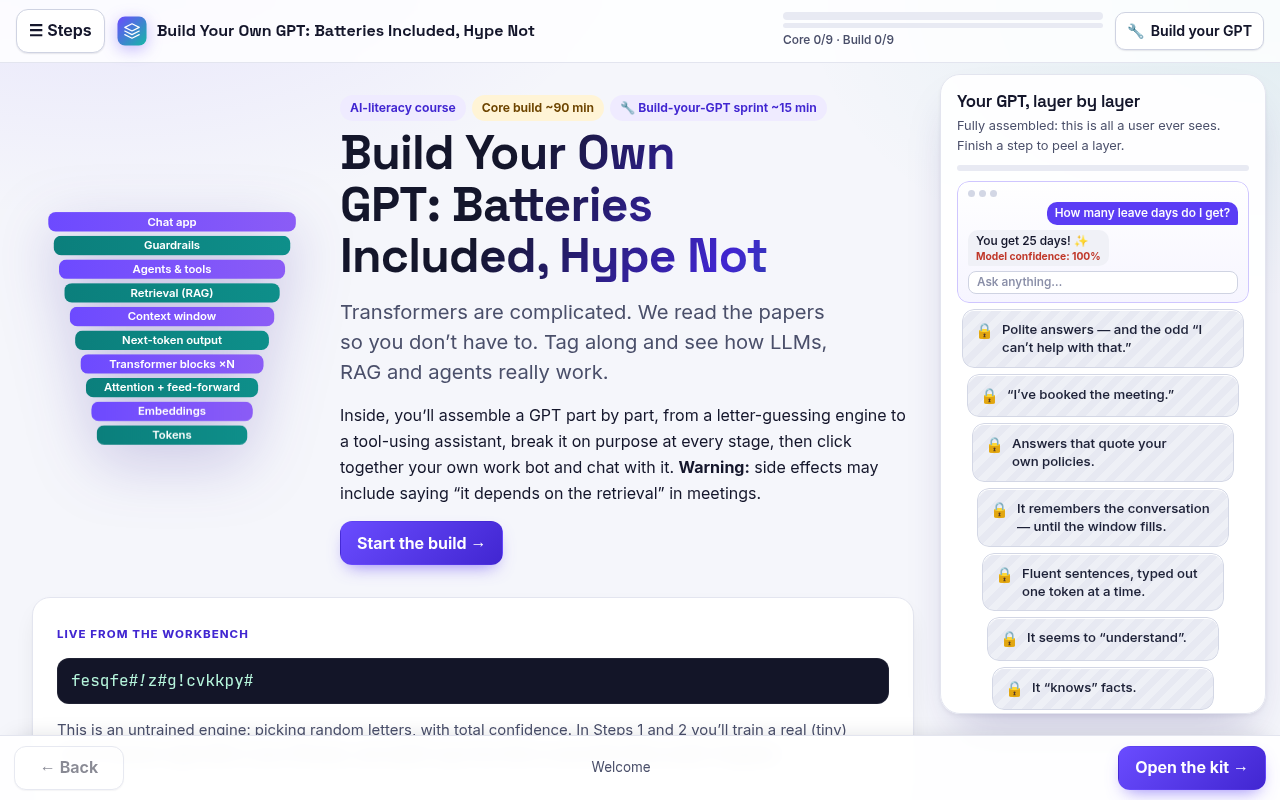
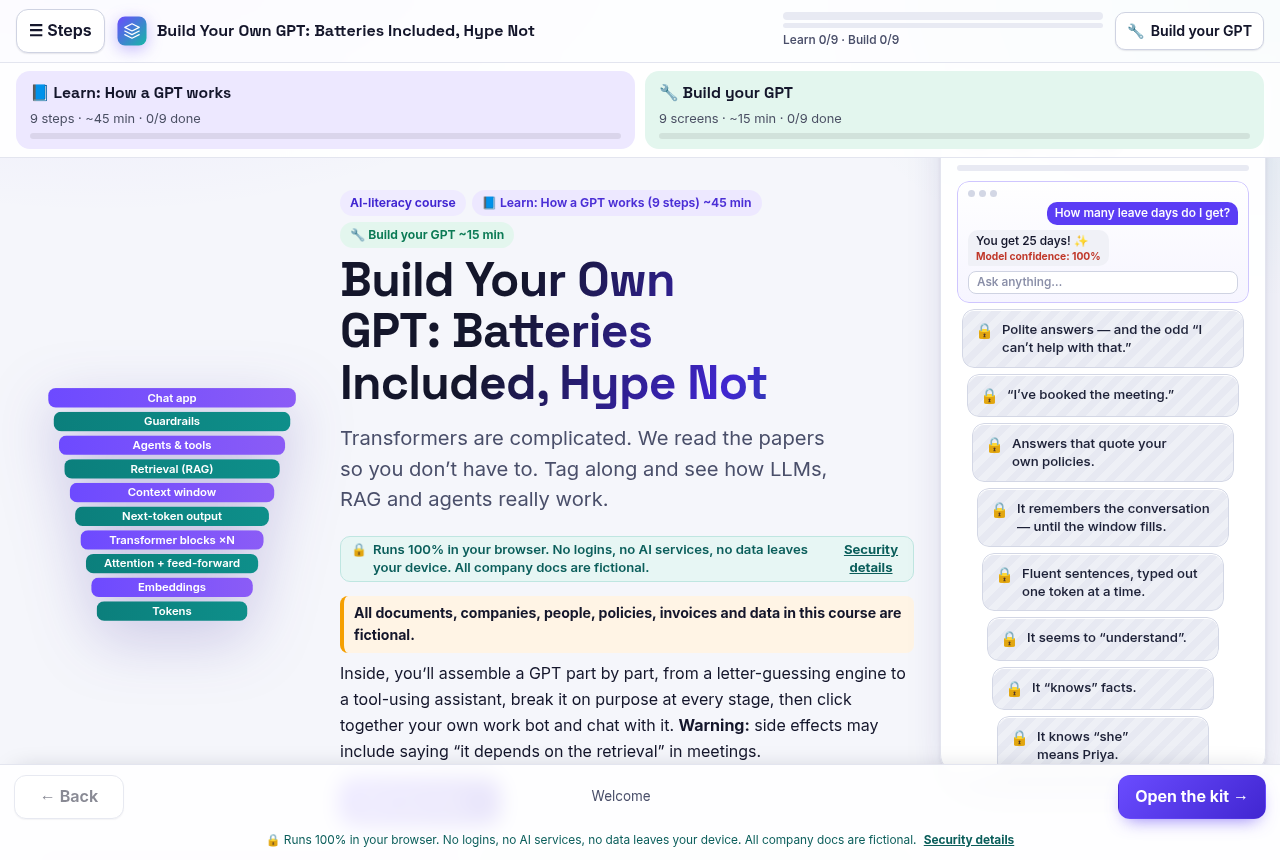
Two side-by-side tracks (Learn: How a GPT works ~45 min / Build your GPT ~15 min), per-step minutes, plain-English term tips with Learn-more links in the sprint

diff --git a/assets/js/app.js b/assets/js/app.js
@@ -8,6 +8,10 @@
   const CORE = C.steps.map((s) => s.n);
   const LAST_CORE = CORE[CORE.length - 1];
   const SP = () => window.Sprint; const NB = 9;       // build sprint screens
+  // Honest per-step minutes: words (hook..quiz, excl. optional Under-the-hood) at 200 wpm + ~2 min Break it!/quiz (+0.5 min training in Steps 1-2), rounded.
+  const MIN = { 1: 5, 2: 5, 3: 4, 4: 6, 5: 5, 6: 5, 7: 5, 8: 5, 9: 4 };
+  const LEARN_MIN = 45, BUILD_MIN = 15, LEARN = 'Learn: How a GPT works';
+  C.steps.forEach((s) => { s.time = MIN[s.n] + ' min'; });
   const REAL_MODEL = [1, 2];                          // steps whose Break it! runs a genuinely trained model
   const $ = (s, r) => (r || document).querySelector(s);
   const $$ = (s, r) => Array.from((r || document).querySelectorAll(s));
@@ -184,7 +188,8 @@
     $('#pCore').style.width = (core / CORE.length * 100) + '%';
     $('#pBuild').style.width = (bc / NB * 100) + '%';
     $('#progCore').setAttribute('aria-valuenow', core); $('#progBuild').setAttribute('aria-valuenow', bc);
-    $('#progressLabel').textContent = 'Core ' + core + '/' + CORE.length + ' \u00b7 Build ' + bc + '/' + NB;
+    $('#progressLabel').textContent = 'Learn ' + core + '/' + CORE.length + ' \u00b7 Build ' + bc + '/' + NB;
+    drawTracks(core, bc);
     buildDrawer();
     if (window.Layers) { try { window.Layers.update(current); } catch (e) { console.error('layers', e); } }
   }
@@ -195,9 +200,9 @@
       opts = opts || {};
       return '<li class="' + (opts.done ? 'done' : '') + '"><a href="' + href + '"' + (cur === href ? ' aria-current="page"' : '') + '><span class="num" aria-hidden="true">' + (opts.done ? '\u2713' : num) + '</span>' + esc(label) + (opts.done ? '<span class="sr-only"> (done)</span>' : '') + '</a></li>';
     };
-    let h = '<h2>The core build (~90 min)</h2><ol>' + li('#/welcome', '\u2302', 'Welcome');
-    CORE.forEach((n) => { h += li('#/step/' + n, n, step(n).name, { done: S.done[n] }); });
-    h += '</ol><h2>\ud83d\udd27 Build your GPT (~15 min)</h2><ol>';
+    let h = '<ol>' + li('#/welcome', '\u2302', 'Welcome') + '</ol><h2 class="trk-learn">\ud83d\udcd8 ' + LEARN + ' (9 steps \u00b7 ~' + LEARN_MIN + ' min)</h2><ol>';
+    CORE.forEach((n) => { h += li('#/step/' + n, n, step(n).name + ' \u00b7 ' + MIN[n] + ' min', { done: S.done[n] }); });
+    h += '</ol><h2 class="trk-build">\ud83d\udd27 Build your GPT (~' + BUILD_MIN + ' min)</h2><ol>';
     SP().SCREENS.forEach((sc, i) => { h += li('#/build/' + (i + 1), i + 1, sc.t, { done: i + 1 === NB ? SP().B().built : S.bdone[i + 1] }); });
     h += li('#/chat', '\ud83d\udcac', 'Chat with your bot') + '</ol>';
     d.innerHTML = h;
@@ -210,6 +215,15 @@
     S = blank(); if (SP()) SP().resetSession(); save(); toast('Fresh start! The engine is back to guessing random letters.'); go('#/welcome');
   }
 
+  function trackCards(core, bc, compact) {
+    const r = current || {}; const onL = r.name === 'step', onB = r.name === 'build' || r.name === 'chat';
+    const nextStep = CORE.find((n) => !S.done[n]) || 1; const nextB = Math.min(NB, bc + 1);
+    const learn = '<a class="track learn' + (onL ? ' on' : '') + '" href="#/step/' + (onL ? r.arg : nextStep) + '"' + (onL ? ' aria-current="true"' : '') + '><b>\ud83d\udcd8 ' + LEARN + '</b><small>9 steps \u00b7 ~' + LEARN_MIN + ' min \u00b7 ' + core + '/9 done</small><span class="tbar"><i style="width:' + (core / 9 * 100) + '%"></i></span>' + (compact ? '' : '<span class="tdesc">Peel a GPT layer by layer: train a tiny model, break it, see why it works.</span>') + '</a>';
+    const build = '<a class="track build' + (onB ? ' on' : '') + '" href="#/build/' + (onB && r.name === 'build' ? r.arg : nextB) + '"' + (onB ? ' aria-current="true"' : '') + '><b>\ud83d\udd27 Build your GPT</b><small>9 screens \u00b7 ~' + BUILD_MIN + ' min \u00b7 ' + bc + '/9 done</small><span class="tbar"><i style="width:' + (bc / 9 * 100) + '%"></i></span>' + (compact ? '' : '<span class="tdesc">Click together a work bot and chat with it. Start any time: every term has a plain-English tip.</span>') + '</a>';
+    return learn + build;
+  }
+  function tracksHTML() { return '<section class="tracks big" aria-label="Choose a track">' + trackCards(CORE.filter((n) => S.done[n]).length, buildCount(), false) + '</section>'; }
+  function drawTracks(core, bc) { const t = $('#trackNav'); if (t) t.innerHTML = trackCards(core, bc, true); }
   function heroArt() {
     const L = ['Chat app', 'Guardrails', 'Agents & tools', 'Retrieval (RAG)', 'Context window', 'Next-token output', 'Transformer blocks \u00d7N', 'Attention + feed-forward', 'Embeddings', 'Tokens'];
     return '<svg viewBox="0 0 260 250" class="hero-svg" aria-hidden="true" focusable="false">' + L.map((l, i) => { const y = 14 + i * 22, w = 230 - i * 10, x = (260 - w) / 2; return '<g class="hl" style="--i:' + i + '"><rect x="' + x + '" y="' + y + '" width="' + w + '" height="18" rx="7" fill="url(#hg' + (i % 2) + ')"/><text x="130" y="' + (y + 12.5) + '" text-anchor="middle">' + l + '</text></g>'; }).join('') + '<defs><linearGradient id="hg0" x1="0" x2="1"><stop offset="0" stop-color="#6d4aff"/><stop offset="1" stop-color="#8b5cf6"/></linearGradient><linearGradient id="hg1" x1="0" x2="1"><stop offset="0" stop-color="#0b7f7c"/><stop offset="1" stop-color="#0e8f8a"/></linearGradient></defs></svg>';
@@ -220,16 +234,13 @@
     const rl = resume ? whereLabel(parse(resume)) : '';
     main.innerHTML =
       '<section class="hero"><div class="hero-art">' + heroArt() + '</div>' +
-      '<div><div class="chips"><span class="chip">AI-literacy course</span><span class="chip time">Core build ~90 min</span><span class="chip">\ud83d\udd27 Build-your-GPT sprint ~15 min</span></div>' +
+      '<div><div class="chips"><span class="chip">AI-literacy course</span><span class="chip learn">\ud83d\udcd8 ' + LEARN + ' (9 steps) ~' + LEARN_MIN + ' min</span><span class="chip build">\ud83d\udd27 Build your GPT ~' + BUILD_MIN + ' min</span></div>' +
       '<h1 class="course-title">' + esc(CFG.name) + '</h1><p class="subtitle">' + esc(CFG.subtitle) + '</p>' + safe('Runs 100% in your browser. No logins, no AI services, no data leaves your device. All company docs are fictional.') + '<p class="fict"><strong>' + FICT + '</strong></p>' +
       '<p>Inside, you\u2019ll assemble a GPT part by part, from a letter-guessing engine to a tool-using assistant, break it on purpose at every stage, then click together your own work bot and chat with it. <strong>Warning:</strong> side effects may include saying \u201cit depends on the retrieval\u201d in meetings.</p>' +
-      '<div class="row">' + (resume ? '<a class="btn primary" href="' + resume + '">Continue: ' + esc(rl) + ' \u2192</a><a class="btn" href="#/step/1">Start from Step 1</a>' : '<a class="btn primary" href="#/step/1">Start the build \u2192</a>') + '</div></div></section>' +
+      '<div class="row">' + (resume ? '<a class="btn primary" href="' + resume + '">Continue: ' + esc(rl) + ' \u2192</a><a class="btn" href="#/step/1">Start from Step 1</a>' : '<a class="btn primary" href="#/step/1">Start learning \u2192</a>') + '</div></div></section>' + tracksHTML() +
       '<div class="card"><span class="section-label">Live from the workbench</span><p class="noise" id="noise" aria-live="off"></p><p class="note">This is an untrained engine: picking random letters, with total confidence. In Steps 1 and 2 you\u2019ll train a real (tiny) neural network right here in your browser, and watch it go from this to word-like office email. Progress!</p></div>' +
       '<div class="card"><h2>Hello! What should your GPT call you?</h2><div class="field"><label for="nameIn">First name (optional, stays in this browser)</label><input class="input" id="nameIn" autocomplete="given-name" maxlength="40" value="' + esc(S.name) + '" placeholder="e.g. Priya, Tom, Ananya, Sam"></div><p id="nameHi" class="status" aria-live="polite"></p></div>' +
       '<div class="card"><h2>The pitch</h2>' + C.intro.pitch + '</div>' +
-      '<div class="card"><h2>One route, two parts</h2><div class="path-cards">' +
-      '<div><h3>\ud83c\udf7c Core build (Steps 1-' + LAST_CORE + ')</h3><p>Peel your GPT layer by layer. One screen per step, ~10 minutes each, each with a Break it! challenge.</p></div>' +
-      '<div><h3>\ud83d\udd27 Build your GPT (~15 min)</h3><p>Click together a work bot: pick its job, brain, documents, tools and guardrails (no typing except its name), then chat with it and download its spec card.</p></div></div></div>' +
       '<div class="card"><h2>How every step works</h2><ol><li><strong>Hook</strong>: one opening line (often a bad joke).</li><li><strong>What you see</strong>: the model before and after (illustrative).</li><li><strong>What\u2019s really happening</strong>: the real mechanism, in plain words. The metaphor is fun; this part is the truth.</li><li><strong>Break it!</strong>: a hands-on challenge. Breaking things is the fastest way to learn their limits.</li><li><strong>Myth-buster</strong>, <strong>So what for your requirement?</strong> and a one-question <strong>Quick check</strong>.</li><li><strong>Under the hood</strong>: a closed panel with a diagram and technical bullets for the curious.</li></ol><p>Underlined words like <button type="button" class="gloss" data-term="token" aria-expanded="false">token</button> open a one-line definition.</p></div>' +
       '<details class="card" id="security"><summary><strong>\ud83d\udd12 Security &amp; privacy (for InfoSec teams)</strong></summary>' + SECURITY + '<p class="note">Full summary: SECURITY-SUMMARY in the repo.</p></details>' +
       '<div class="card"><h2>By the end you\u2019ll be able to\u2026</h2>' + C.intro.outcomes + '</div>' +
@@ -252,7 +263,7 @@
     const icon = X.icons[n] || 'spark';
     const done = !!S.challenge[n];
     let h = '<div class="step-head">' + partSVG(icon, 84) + '<div><div class="chips">' +
-      '<span class="chip">Step ' + n + ' of ' + CORE.length + ' \u00b7 Core</span>' +
+      '<span class="chip learn">\ud83d\udcd8 Learn \u00b7 Step ' + n + ' of ' + CORE.length + '</span>' +
       '<span class="chip time">\u23f1 ~' + esc(s.time.replace(/,.*$/, '')) + '</span></div>' +
       '<h1>' + X.emoji[n] + ' ' + esc(s.name) + '</h1><p class="concept">' + esc(s.concept) + '</p>' +
       (s.buildsOn ? '<p class="note">Builds on ' + linkSteps(s.buildsOn.replace(/Steps (\d+) and (\d+)/, 'Step $1 and Step $2').replace(/Steps (\d+), (\d+) and (\d+)/, 'Step $1, Step $2 and Step $3')) + '.</p>' : '') + '</div></div>';

diff --git a/assets/js/sprint.js b/assets/js/sprint.js
@@ -202,6 +202,44 @@
   }
   function answerFact(b, id, mem) { const f = job(b).facts.find((x) => x.id === id); return answer(b, f.q, mem); }
 
+
+  /* ---------------- plain-English term tips (reuse the course glossary, link to the matching Learn step) ---------------- */
+  const EXTRA_DEF = { 'hosted API': 'The model runs on a vendor\u2019s servers and your app sends it text over the internet; open-weight models can run on your own servers instead.' };
+  const TERM_STEP = { token: 1, temperature: 1, 'hosted API': 8, 'open-weight': 8, parameter: 5, quantization: 5, distillation: 5, 'mixture of experts': 5, latency: 3, RAG: 6, chunk: 6, embedding: 4, 'vector search': 6, memory: 3, tool: 7, MCP: 7, agent: 7, 'reasoning model': 1, 'context window': 3, 'context engineering': 3, multimodal: 1, guardrail: 8, hallucination: 5, 'prompt injection': 7, 'fine-tuning': 8, RLHF: 8, DPO: 8, 'Constitutional AI': 8, 'verifiable reward': 8, eval: 9, 'synthetic data': 2 };
+  const SCREEN_TERMS = {
+    3: [['hosted API', /Hosted \(via an API\)/], ['open-weight', /Open-weight \(self-hosted\)/], ['parameter', /Big & smart/], ['quantization', /Make it lighter/], ['distillation', null], ['mixture of experts', /Mixture of experts \(MoE\)/], ['latency', /Wait per answer/]],
+    4: [['RAG', /This is RAG/], ['chunk', /^Chunk size$/], ['embedding', /^Search type$/], ['vector search', null]],
+    5: [['memory', /Remembers the conversation/], ['tool', /^Tools it may use$/], ['MCP', null], ['agent', /Agent mode/]],
+    6: [['reasoning model', /Think before answering/], ['context window', /Long context/], ['context engineering', /Context engineering/], ['multimodal', /Senses \(multimodal\)/], ['token', null]],
+    7: [['guardrail', /^Must refuse$/], ['hallucination', /when it isn\u2019t in the documents/], ['prompt injection', /Prompt-injection shield/], ['fine-tuning', /How its manners were trained/], ['RLHF', null], ['DPO', null], ['Constitutional AI', null], ['verifiable reward', null]],
+    8: [['eval', /Pick ready-made test questions/], ['synthetic data', /Add synthetic test data/]],
+    9: [['RAG', null], ['guardrail', null], ['eval', null]]
+  };
+  function termDef(t) { return EXTRA_DEF[t] || (window.EXTRAS && window.EXTRAS.glossary[t]) || ''; }
+  const gtSpan = (t) => '<span class="gt" role="button" tabindex="0" data-gt="' + esc(t) + '" title="' + esc(termDef(t)) + '" aria-label="What is ' + esc(t) + '?">i</span>';
+  function termStrip(n) {
+    const list = SCREEN_TERMS[n]; if (!list) return '';
+    return '<div class="gt-strip"><span>\ud83d\udcd6 Plain-English terms:</span>' + list.map((x) => '<span class="gt-chip" role="button" tabindex="0" data-gt="' + esc(x[0]) + '" title="' + esc(termDef(x[0])) + '">' + esc(x[0]) + '</span>').join('') + '</div>';
+  }
+  function inlineTerms(root, n) {
+    (SCREEN_TERMS[n] || []).forEach(([t, re]) => {
+      if (!re) return;
+      const w = document.createTreeWalker(root, NodeFilter.SHOW_TEXT); let node;
+      while ((node = w.nextNode())) { if (re.test(node.nodeValue.trim()) && !node.parentElement.closest('option,.gt-strip,.gt-pop')) { node.parentElement.insertAdjacentHTML('beforeend', gtSpan(t)); break; } }
+    });
+  }
+  function showTerm(el) {
+    hideTerm(); const t = el.dataset.gt, st = TERM_STEP[t], C = window.COURSE;
+    const pop = document.createElement('div'); pop.className = 'gt-pop pop'; pop.id = 'gtPop'; pop.setAttribute('role', 'tooltip');
+    pop.innerHTML = '<b>' + esc(t) + ':</b> ' + esc(termDef(t)) + (st ? '<br><a href="#/step/' + st + '">Learn more in Step ' + st + ': ' + esc(C.steps[st - 1].name) + ' \u2192</a>' : '');
+    document.body.appendChild(pop); const r = el.getBoundingClientRect();
+    pop.style.top = (window.scrollY + r.bottom + 6) + 'px';
+    pop.style.left = Math.max(8, Math.min(window.scrollX + r.left - 20, window.scrollX + document.documentElement.clientWidth - pop.offsetWidth - 8)) + 'px';
+  }
+  function hideTerm() { const p = document.getElementById('gtPop'); if (p) p.remove(); }
+  document.addEventListener('click', (e) => { const g = e.target.closest('.gt,.gt-chip'); if (g) { e.preventDefault(); e.stopPropagation(); if (document.getElementById('gtPop') && document.getElementById('gtPop').dataset.for === g.dataset.gt) hideTerm(); else { showTerm(g); document.getElementById('gtPop').dataset.for = g.dataset.gt; } } else if (!e.target.closest('#gtPop')) hideTerm(); }, true);
+  document.addEventListener('keydown', (e) => { const g = e.target.closest && e.target.closest('.gt,.gt-chip'); if (g && (e.key === 'Enter' || e.key === ' ')) { e.preventDefault(); showTerm(g); } if (e.key === 'Escape') hideTerm(); });
+  window.addEventListener('hashchange', hideTerm);
   /* ---------------- screens ---------------- */
   const SCREENS = [
     { t: 'Name your bot', e: '\ud83c\udff7\ufe0f' }, { t: 'Pick a job', e: '\ud83d\udcbc' }, { t: 'Pick a brain', e: '\ud83e\udde0' },
@@ -247,7 +285,7 @@
         tog('cite', '\ud83d\udcce Cite sources', b.cite, 'Adds the document name so people can check. Cheap trust.') +
         tog('honest', '\ud83e\udd37 Say \u201cI don\u2019t know\u201d when it isn\u2019t in the documents', b.honest, 'Off = it guesses fluently. That\u2019s a hallucination.') +
         tog('shield', '\ud83d\udee1\ufe0f Prompt-injection shield', b.shield, 'Treats text in messages and documents as data, never as new instructions (\u201cignore your rules\u2026\u201d).') +
-        sel('align', 'How its manners were trained', Object.keys(ALIGN).map((k) => [k, ALIGN[k][0]]), b.align, '') + '<p class="tip" id="alignTip">\ud83d\udca1 ' + esc(ALIGN[b.align][1]) + '</p>';
+        sel('align', 'How its manners were trained', Object.keys(ALIGN).map((k) => [k, ALIGN[k][0]]), b.align, '') + '<p class="tip" id="alignTip">\ud83d\udca1 ' + esc(ALIGN[b.align][1]) + ({ rlhf: gtSpan('RLHF'), dpo: gtSpan('DPO'), cai: gtSpan('Constitutional AI'), rlvr: gtSpan('verifiable reward'), sft: gtSpan('fine-tuning') })[b.align] + '</p>';
       case 8: {
         const items = evalItems(b);
         return '<p><strong>Pick ready-made test questions</strong> (real teams write these before launch):</p><div class="checks">' + items.map((it) => tog('evals.' + it.id, esc(it.q), b.evals[it.id] !== false, 'Expect: ' + esc(it.expectLabel))).join('') + '</div>' +
@@ -337,7 +375,8 @@
     if (n > 2 && !b.job) { main.innerHTML = '<div class="card lockscreen"><h1>Pick a job first</h1><p>Your bot needs a job before it needs a brain. (Same as most of us.)</p><a class="btn primary" href="#/build/2">Pick a job</a></div>'; return; }
     main.innerHTML = '<div class="step-head"><div><div class="chips"><span class="chip">Build your GPT \u00b7 ' + n + ' of ' + SCREENS.length + '</span><span class="chip time">\u23f1 ~1-2 min</span>' + (b.job ? '<span class="chip">' + esc(job(b).icon + ' ' + (b.name || job(b).label)) + '</span>' : '') + '</div><h1>' + sc.e + ' ' + esc(sc.t) + '</h1></div></div>' +
       '<div class="sprint-dots" aria-hidden="true">' + SCREENS.map((s, i) => '<i class="' + (i + 1 === n ? 'cur' : i + 1 < n ? 'on' : '') + '"></i>').join('') + '</div>' +
-      '<section class="card sprint" id="sprint">' + body(n, b) + '</section>';
+      '<section class="card sprint" id="sprint">' + termStrip(n) + body(n, b) + '</section>';
+    inlineTerms($('#sprint', main), n);
     wire(main, n, b);
   }
   function rerender(main, n) { const y = window.scrollY; render(main, n); const c = $('#sprint', main); if (c) c.classList.add('again'); window.scrollTo(0, y); window.App.updateChrome(); }
@@ -429,5 +468,5 @@
     draw();
   }
 
-  window.Sprint = { SCREENS, JOBS, REFUSE, ALIGN, render, renderChat, answer, answerFact, runEvals, evalItems, specLines, meter, ingredients, defaults, B, resetSession: () => { session = { mem: {}, log: [], spent: 0 }; } };
+  window.Sprint = { SCREEN_TERMS, TERM_STEP, termDef, SCREENS, JOBS, REFUSE, ALIGN, render, renderChat, answer, answerFact, runEvals, evalItems, specLines, meter, ingredients, defaults, B, resetSession: () => { session = { mem: {}, log: [], spent: 0 }; } };
 })();

diff --git a/assets/js/content.js b/assets/js/content.js
@@ -1441,7 +1441,7 @@ window.COURSE = {
  ],
  "intro": {
   "pitch": "<p>Everyone has an opinion about AI. Few of us have seen how it works. So we ask for things like &quot;a bot that knows everything about our company&quot; and then feel let down. This course fixes that by having you <em>assemble</em> a GPT, part by part. It starts as an engine that guesses random letters. You fuel it with data and watch it learn words, then sentences. You fit attention, look inside the engine, scale it up, bolt on a library (so it can look things up), hand it tools (so it can act) and give it manners (so it behaves). At each stage you&#39;ll try to break it, which is the fastest way to learn what it can&#39;t do. At the end you&#39;ll ship a real AI requirement: one that an IT team can build, test and trust. Then, if you&#39;re hooked, keep building: add memory, tune the search, add a thinking mode, hand over the office keys safely, run a proper test bench and keep the running costs in check.</p>\n",
-  "outcomes": "<p>By the end of the core build (Steps 1-9) you will be able to:</p>\n<ol>\n<li>Explain in one sentence what a large language model (LLM) does: <strong>it predicts the next piece of text, one piece at a time.</strong></li>\n<li>Explain why it can sound confident and still be wrong (hallucination).</li>\n<li>Explain why a model doesn&#39;t know your company&#39;s information unless someone gives it that information.</li>\n<li>Tell the difference between a <strong>plain prompt</strong>, <strong>RAG</strong> (look it up, then answer), an <strong>agent</strong> (plan, use tools, check) and <strong>fine-tuning</strong> (change its habits), and pick the right one for a problem.</li>\n<li>Name the main ways each approach fails: bad search, a full context window, prompt injection, runaway agent costs.</li>\n<li>Click together your own work bot in the <strong>Build your GPT</strong> sprint and walk away with a <strong>spec card</strong> covering its job, model, documents, tools, guardrails, tests and rough cost.</li>\n</ol>\n<p>If you continue into the optional steps (10-22) you will also be able to:</p>\n<ol start=\"7\">\n<li>Explain the newer ideas you&#39;ll hear in vendor pitches (memory, embeddings, long context, multimodal, reasoning models, MCP, evals, guardrails, modern alignment, synthetic data, small and open-weight models, mixture of experts, cost economics) in plain words.</li>\n<li>Turn each of those ideas into a sharper line in your requirement.</li>\n</ol>\n",
+  "outcomes": "<p>By the end of Learn: How a GPT works (Steps 1-9) you will be able to:</p>\n<ol>\n<li>Explain in one sentence what a large language model (LLM) does: <strong>it predicts the next piece of text, one piece at a time.</strong></li>\n<li>Explain why it can sound confident and still be wrong (hallucination).</li>\n<li>Explain why a model doesn&#39;t know your company&#39;s information unless someone gives it that information.</li>\n<li>Tell the difference between a <strong>plain prompt</strong>, <strong>RAG</strong> (look it up, then answer), an <strong>agent</strong> (plan, use tools, check) and <strong>fine-tuning</strong> (change its habits), and pick the right one for a problem.</li>\n<li>Name the main ways each approach fails: bad search, a full context window, prompt injection, runaway agent costs.</li>\n<li>Click together your own work bot in the <strong>Build your GPT</strong> sprint and walk away with a <strong>spec card</strong> covering its job, model, documents, tools, guardrails, tests and rough cost.</li>\n</ol>\n<p>If you continue into the optional steps (10-22) you will also be able to:</p>\n<ol start=\"7\">\n<li>Explain the newer ideas you&#39;ll hear in vendor pitches (memory, embeddings, long context, multimodal, reasoning models, MCP, evals, guardrails, modern alignment, synthetic data, small and open-weight models, mixture of experts, cost economics) in plain words.</li>\n<li>Turn each of those ideas into a sharper line in your requirement.</li>\n</ol>\n",
   "honest": "<p>This course builds the <strong>right mental model</strong>. It does not make you an engineer. You won&#39;t be ready to ship a production model, design a search index or secure an agent after 90 minutes. You <em>will</em> be able to ask good questions, spot fantasy requirements, and have a much better conversation with the people who build these systems. The models in this course are teaching tools. In Steps 1 and 2 you train a genuinely working (but tiny) transformer with causal self-attention in your browser; it learns from a few pages of fictional office email in about 10\u201320 seconds, so expect word-like text, not wisdom. You can watch its real attention weights as it writes. Everything else is <strong>simulated for the demo</strong>: those responses were written in advance to show a real mechanism safely and offline, and they are labelled that way. The field changes fast. Product names and features mentioned here were described as accurately as we could at the time of writing and should be rechecked when the course is refreshed.</p>\n",
   "howToRun": "<ul>\n<li><strong>Solo, one sitting:</strong> Do Steps 1-9 back to back with a coffee. Roughly 90 minutes.</li>\n<li><strong>15-minute chunks:</strong> One step per day over two weeks (9 working days, with Step 9 split over two). Good for teams with packed calendars. Each step ends with a one-question quick check, which makes a natural stopping point.</li>\n<li><strong>Build sprint:</strong> After Step 9, everyone clicks together their own work bot in about 15 minutes and chats with it. Great as a live team session: compare spec cards.</li>\n<li><strong>Team challenge:</strong> Pair up. Each &quot;Break it!&quot; challenge has a goal (make it hallucinate, overflow its memory, hijack it). Pairs share their best break in a team chat channel. The funniest and the most instructive both get a shout-out in the next team meeting.</li>\n<li><strong>Quiz moments:</strong> Use the quick-check questions (Appendix A2) as a 5-minute warm-up at the start of a team meeting. No scores are stored; it&#39;s for conversation, not ranking.</li>\n<li><strong>Ship It: Write the Spec session (45 min, live):</strong> Each team brings one real &quot;we want AI to...&quot; request, builds it in the sprint, and reviews the spec card with a facilitator (or a techno-functional colleague).</li>\n<li><strong>Facilitator tip:</strong> Techno-functional colleagues make great &quot;table buddies&quot;. The Under-the-hood panels give them enough to answer follow-up questions.</li>\n</ul>\n"
  },

diff --git a/assets/css/style.css b/assets/css/style.css
@@ -609,3 +609,24 @@ main#main{padding-bottom:110px}
 .safe-more{background:none;border:0;padding:0;margin-left:4px;color:#0b5e5b;text-decoration:underline;font:inherit;font-weight:700;cursor:pointer}
 .fict{font-size:.88rem;background:#fff4e5;border-left:4px solid var(--amber);border-radius:8px;padding:6px 10px;margin:8px 0}
 .secl li{margin:4px 0}.secl code{font-size:.72rem;word-break:break-all}
+/* two tracks */
+:root{--learn:#ede8ff;--learn-ink:#4b2fd6;--build:#e3f6ee;--build-ink:#0b7a55}
+.tracks{display:grid;grid-template-columns:1fr 1fr;gap:10px}
+.tracks.top{position:sticky;top:0;z-index:30;padding:8px 16px;background:rgba(255,255,255,.92);backdrop-filter:blur(6px);border-bottom:1px solid var(--line)}
+.track{display:flex;flex-direction:column;gap:3px;border-radius:14px;padding:8px 12px;text-decoration:none;color:var(--ink);border:2px solid transparent}
+.track.learn{background:var(--learn)}.track.build{background:var(--build)}
+.track.learn.on{border-color:var(--learn-ink)}.track.build.on{border-color:var(--build-ink)}
+.track b{font-family:var(--font-display);font-size:.98rem}.track small{font-size:.8rem;color:#4a4f63}
+.tbar{display:block;height:6px;border-radius:99px;background:rgba(0,0,0,.08);overflow:hidden}.tbar i{display:block;height:100%}
+.track.learn .tbar i{background:var(--learn-ink)}.track.build .tbar i{background:var(--build-ink)}
+.tracks.big{margin:14px 0}.tracks.big .track{padding:16px 18px}.tracks.big b{font-size:1.2rem}.tdesc{font-size:.9rem}
+.chip.learn{background:var(--learn);color:var(--learn-ink)}.chip.build{background:var(--build);color:var(--build-ink)}
+.progress .core{background:var(--learn-ink)!important}.progress .build{background:var(--build-ink)!important}
+.drawer h2.trk-learn{background:var(--learn);color:var(--learn-ink);border-radius:8px;padding:4px 8px}.drawer h2.trk-build{background:var(--build);color:var(--build-ink);border-radius:8px;padding:4px 8px}
+@media (max-width:640px){.tracks.top{padding:6px 8px;gap:6px}.tracks.top small{display:none}.tracks.top b{font-size:.82rem}}
+.gt{display:inline-flex;align-items:center;justify-content:center;width:17px;height:17px;margin-left:5px;border-radius:50%;background:var(--learn-ink);color:#fff;font:italic 700 11px/1 Georgia,serif;cursor:help;vertical-align:middle}
+.gt-strip{display:flex;flex-wrap:wrap;gap:6px;align-items:center;font-size:.85rem;margin:0 0 10px}
+.gt-chip{border:1px dashed var(--learn-ink);color:var(--learn-ink);background:var(--learn);border-radius:99px;padding:2px 9px;cursor:help;font-weight:600}
+.gt-pop{position:absolute;z-index:200;max-width:330px;background:#1d1b2f;color:#fff;border-radius:10px;padding:9px 12px;font-size:.88rem;box-shadow:var(--shadow)}.gt-pop a{color:#c9bcff;font-weight:700}
+.card.sprint{background:linear-gradient(180deg,#f3fbf7,#fff 140px)}
+.bcard span.gt{color:#fff;font-size:11px;display:inline-flex}

diff --git a/index.html b/index.html
@@ -19,9 +19,9 @@
   <button id="menuBtn" class="icon-btn" aria-controls="drawer" aria-expanded="false"><span aria-hidden="true">☰</span> Steps</button>
   <a class="brand" id="brandLink" href="#/welcome" aria-label="Build Your Own GPT: Batteries Included, Hype Not, home"><span id="brandIcon" aria-hidden="true"></span><span id="brandName">Build Your Own GPT: Batteries Included, Hype Not</span></a>
   <div class="progress-wrap" aria-label="Course progress">
-    <div class="progress" id="progCore" role="progressbar" aria-label="Core steps done" aria-valuemin="0" aria-valuemax="9" aria-valuenow="0"><span class="core" id="pCore" style="width:0"></span></div>
+    <div class="progress" id="progCore" role="progressbar" aria-label="Learn steps done" aria-valuemin="0" aria-valuemax="9" aria-valuenow="0"><span class="core" id="pCore" style="width:0"></span></div>
     <div class="progress thin" id="progBuild" role="progressbar" aria-label="Build sprint screens done" aria-valuemin="0" aria-valuemax="9" aria-valuenow="0"><span class="build" id="pBuild" style="width:0"></span></div>
-    <span class="progress-label" id="progressLabel">Core 0/9</span>
+    <span class="progress-label" id="progressLabel">Learn 0/9</span>
   </div>
   <a class="btn small ws-link" href="#/build/1"><span aria-hidden="true">🔧</span><span class="hide-sm">Build your GPT</span><span class="sr-only">Build your GPT</span></a>
 </header>
@@ -33,6 +33,7 @@
     <button class="btn small" id="resetBtn">Clear my data</button>
   </div>
 </nav>
+<nav id="trackNav" class="tracks top" aria-label="Tracks"></nav>
 <aside id="layerPanel" class="layer-panel" aria-labelledby="lpTitle"></aside>
 <main id="main" tabindex="-1"></main>
 <footer class="navbar" aria-label="Step navigation">

diff --git a/assets/js/config.js b/assets/js/config.js
@@ -4,7 +4,7 @@
 window.SITE_CONFIG = {
   name: 'Build Your Own GPT: Batteries Included, Hype Not',
   subtitle: 'Transformers are complicated. We read the papers so you don\u2019t have to. Tag along and see how LLMs, RAG and agents really work.',
-  blurb: 'A break-it-yourself course (9 core steps, ~90 minutes) that shows office folks how LLMs, RAG and agents really work, then a 15-minute click-to-build sprint where you assemble your own work bot and chat with it. Runs offline in your browser.',
+  blurb: 'A break-it-yourself course (Learn: How a GPT works, 9 steps, ~45 minutes) that shows office folks how LLMs, RAG and agents really work, then a 15-minute click-to-build sprint where you assemble your own work bot and chat with it. Runs offline in your browser.',
   liveUrl: 'https://venky3007.github.io/build-your-own-gpt/',
   repo: 'venky3007/build-your-own-gpt'
 };

diff --git a/README.md b/README.md
@@ -2,7 +2,7 @@
 
 > Transformers are complicated. We read the papers so you don’t have to. Tag along and see how LLMs, RAG and agents really work.
 
-A break-it-yourself course (9 core steps, ~90 minutes) that shows office folks how LLMs, RAG and agents really work, then a 15-minute click-to-build sprint where you assemble your own work bot and chat with it. Runs offline in your browser.
+A break-it-yourself course (Learn: How a GPT works, 9 steps, ~45 minutes) that shows office folks how LLMs, RAG and agents really work, then a 15-minute click-to-build sprint where you assemble your own work bot and chat with it. Runs offline in your browser.
 
 **▶ Try it live: [https://venky3007.github.io/build-your-own-gpt/](https://venky3007.github.io/build-your-own-gpt/)**
 
@@ -10,14 +10,14 @@ A break-it-yourself course (9 core steps, ~90 minutes) that shows office folks h
 
 ![Screenshot: chatting with the bot you built in the sprint, with an off-script suggestion](docs/screenshot-chat.png)
 
-## One route, two parts
+## Two tracks, side by side
 
-- **Core build (~90 minutes).** 9 core steps that assemble a GPT part by part. A **peel-the-layers diagram** starts fully assembled (just the chat box a user sees) and peels one layer per step, down to tokens.
-- **Build your GPT sprint (~15 minutes).** Nine click-to-build screens (zero typing except the bot's name): pick a job (HR helper, IT helpdesk, sales assistant or finance checker), a brain (small vs big, hosted vs open-weight, quantised/distilled, mixture of experts, with a live cost and speed meter), documents for RAG (chunking, keyword vs embedding search), memory, tools/MCP/agents and permissions, reasoning mode, long context and context engineering, screenshot and voice inputs, tone, guardrails, citations, a prompt-injection shield, honesty vs hallucination, alignment method (SFT, RLHF, DPO, Constitutional AI, verifiable rewards), and evals with optional synthetic test data. Click **Build** to watch the parts bolt into the layer diagram, get a downloadable/printable **spec card**, then **chat with your bot**. Its answers are simulated from your picks and the bundled fictional documents, with a "Why it answered this way" panel.
+- **Learn: How a GPT works (9 steps, ~45 minutes).** The learning course: steps that assemble a GPT part by part (about 4–6 minutes each). A **peel-the-layers diagram** starts fully assembled (just the chat box a user sees) and peels one layer per step, down to tokens.
+- **Build your GPT (~15 minutes).** Can be started any time, even before Learn: every technical term has a plain-English tip with a "Learn more in Step X" link. Nine click-to-build screens (zero typing except the bot's name): pick a job (HR helper, IT helpdesk, sales assistant or finance checker), a brain (small vs big, hosted vs open-weight, quantised/distilled, mixture of experts, with a live cost and speed meter), documents for RAG (chunking, keyword vs embedding search), memory, tools/MCP/agents and permissions, reasoning mode, long context and context engineering, screenshot and voice inputs, tone, guardrails, citations, a prompt-injection shield, honesty vs hallucination, alignment method (SFT, RLHF, DPO, Constitutional AI, verifiable rewards), and evals with optional synthetic test data. Click **Build** to watch the parts bolt into the layer diagram, get a downloadable/printable **spec card**, then **chat with your bot**. Its answers are simulated from your picks and the bundled fictional documents, with a "Why it answered this way" panel.
 
 ## What's inside
 
-| Core step | What you build and break |
+| Learn step | What you build and break |
 |---|---|
 | 1. The Autocomplete Engine | next-token prediction and tokens |
 | 2. Fuel: Training Data | training, loss and why data quality matters |
